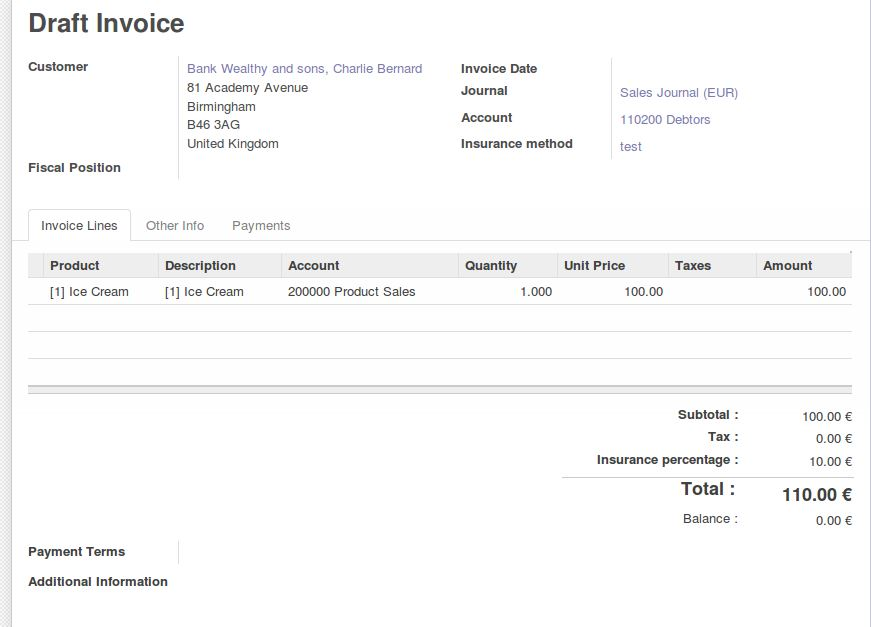
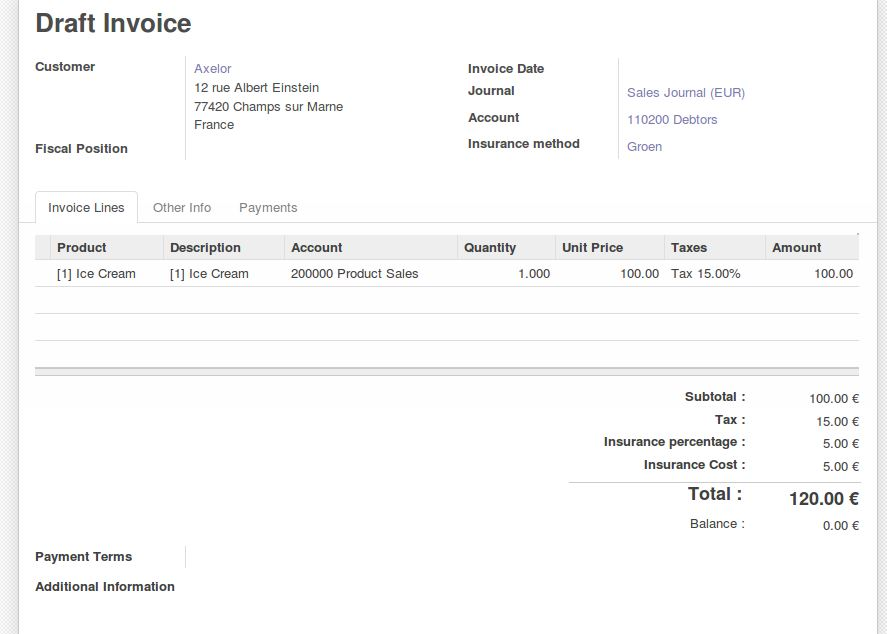
Update 3
De invoice is volledig af, alleen voor percentage moet een percent i p v
euro zijn

diff --git a/sale.py b/sale.py
@@ -31,17 +31,21 @@ class SaleOrder(osv.Model):
                 'amount_tax': 0.0,
                
                 'xx_insurance_percentage':0.0,
+                'xx_insurance_cost':0.0,
                 'amount_total': 0.0,
             }
-            val = val1 = 0.0
+            val = val1 = val2= 0.0
+            
             cur = order.pricelist_id.currency_id
             res[order.id]['xx_insurance_percentage'] = cur_obj.round(cr,uid,cur,order.xx_insurance_method.xx_insurance_percentage)
             for line in order.order_line:
                 val1 += line.price_subtotal
                 val += self._amount_line_tax(cr, uid, line, context=context)
+                val2+=( res[order.id]['amount_untaxed'] + res[order.id]['amount_tax']) * ( res[order.id]['xx_insurance_percentage']/100)
             res[order.id]['amount_tax'] = cur_obj.round(cr, uid, cur, val)
             res[order.id]['amount_untaxed'] = cur_obj.round(cr, uid, cur, val1)
-            res[order.id]['amount_total'] =( res[order.id]['amount_untaxed'] + res[order.id]['amount_tax']) * (1+ res[order.id]['xx_insurance_percentage']/100)
+            
+            res[order.id]['amount_total'] =res[order.id]['amount_tax']+res[order.id]['amount_untaxed']  * (1+ res[order.id]['xx_insurance_percentage']/100)
             return res
     def _prepare_invoice(self, cr, uid, order, lines, context=None):
         """Prepare the dict of values to create the new invoice for a
@@ -83,7 +87,9 @@ class SaleOrder(osv.Model):
             'user_id': order.user_id and order.user_id.id or False,
             'section_id' : order.section_id.id,
             'xx_insurance_method' : order.xx_insurance_method.id,
-            'xx_insurance_percentage' : order.xx_insurance_method.xx_insurance_percentage
+            'xx_insurance_percentage' : order.xx_insurance_method.xx_insurance_percentage,
+            'xx_insurance_cost' : (order.amount_untaxed ) * ( order.xx_insurance_method.xx_insurance_percentage/100)
+            
         }
 
         # Care for deprecated _inv_get() hook - FIXME: to be removed after 6.1

diff --git a/account.py b/account.py
@@ -18,10 +18,12 @@ class AccountInvoice(osv.Model):
     def _compute_amount(self):
         self.amount_untaxed = sum(line.price_subtotal for line in self.invoice_line),
         self.amount_tax = sum(line.amount for line in self.tax_line),
-        self.amount_total = (self.amount_untaxed + self.amount_tax) * (1 + self.xx_insurance_percentage /100)
+        self.amount_total = (self.amount_untaxed + self.amount_tax) * (1 + self.xx_insurance_percentage /100),
+     
 
     _columns = {
             'xx_insurance_method' : fields.many2one('xx.insurance.method',string='Insurance method'),
-            'xx_insurance_percentage' : fields.float(string="Insurance percentage")
+            'xx_insurance_percentage' : fields.float(string="Insurance percentage"),
+            'xx_insurance_cost' : fields.float(string="Insurance Cost")
               
     }

diff --git a/__openerp__.py b/__openerp__.py
@@ -2,7 +2,7 @@
 {
     'name' : 'KH Leuven',
     'version' : '0.1',
-    'author' : 'Landheer Stijn Derveaux',
+    'author' : 'Stijn Derveaux',
     'category' : 'KH Leuven',
     'description' : """
 """,

diff --git a/__init__.py b/__init__.py
@@ -2,5 +2,4 @@ import sale
 import picking
 import stock
 import controllers
-#account for facturen
 import account

diff --git a/controller/__init__.py b/controller/__init__.py
@@ -1,0 +1,1 @@
+import main
